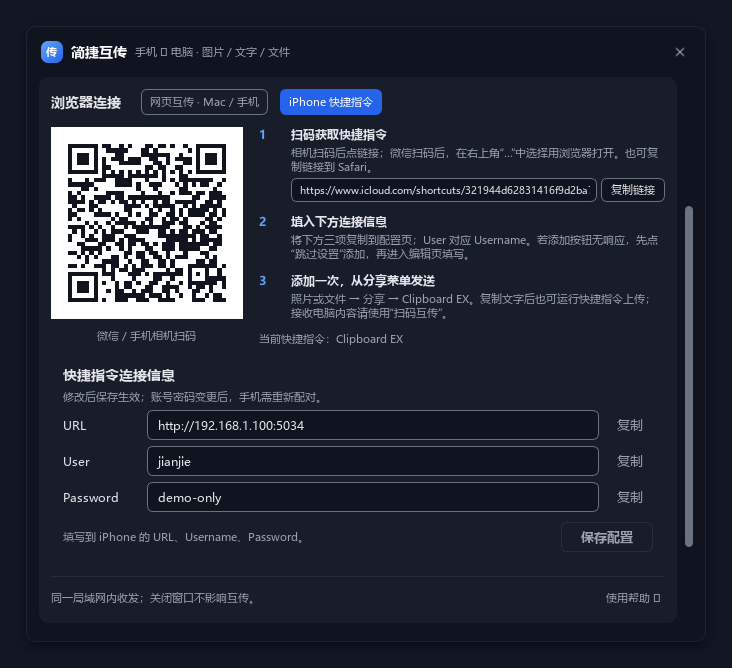
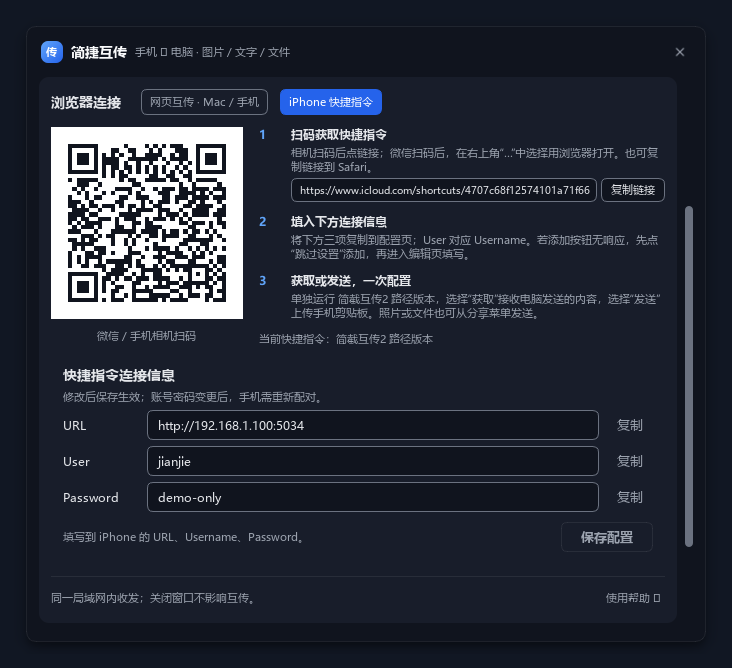
R254：更新 iPhone 双菜单快捷指令入口和说明

Changed region(s): [[0.0902, 0.2096, 0.3306, 0.4491], [0.3907, 0.3892, 0.9016, 0.5389], [0.6311, 0.2695, 0.8115, 0.2994]]

diff --git a/widgets.py b/widgets.py
@@ -1348,7 +1348,7 @@ class PhoneReceiveDialog(CardDialog):
         first_step.itemAt(1).layout().addLayout(link_row)
         instructions.addLayout(first_step)
         instructions.addLayout(self._step("2", "填入下方连接信息", "将下方三项复制到配置页；User 对应 Username。若添加按钮无响应，先点“跳过设置”添加，再进入编辑页填写。"))
-        instructions.addLayout(self._step("3", "添加一次，从分享菜单发送", f"照片或文件 → 分享 → {SHORTCUT_NAME}。复制文字后也可运行快捷指令上传；接收电脑内容请使用“扫码互传”。"))
+        instructions.addLayout(self._step("3", "获取或发送，一次配置", f"单独运行 {SHORTCUT_NAME}，选择“获取”接收电脑发送的内容，选择“发送”上传手机剪贴板。照片或文件也可从分享菜单发送。"))
         instructions.addWidget(self._label(f"当前快捷指令：{SHORTCUT_NAME}", "phoneHint"))
         instructions.addStretch()
         self.phone_pages = QStackedWidget(page)
@@ -1492,7 +1492,7 @@ class PhoneReceiveDialog(CardDialog):
         self.android_button.setAccessibleDescription("已选择" if index == 1 else "未选择")
         common = "手机连接不上：确认同一局域网和 URL 地址；仍失败或换过端口时，可修复局域网连接。"
         from phone_receive import SHORTCUT_NAME
-        ios = f"微信无法打开：复制链接到 Safari，再点“获取快捷指令”。\n已添加过：打开 {SHORTCUT_NAME} 编辑页，更新 URL、Username 和 Password。\n分享后无反应：顶部接收类型勾选图像、文件、文本；在最后一个上传请求后添加“快速查看”展示返回值。电脑收到请求后会在这里显示处理结果。\n快捷指令用于手机快捷发送；接收电脑内容使用扫码网页。\nHEIC 等格式按文件接收，可在资源管理器粘贴保存。"
+        ios = f"微信无法打开：复制链接到 Safari，再点“获取快捷指令”。\n使用新版：添加 {SHORTCUT_NAME}，将 URL、Username 和 Password 配置为下方连接信息。\n单独运行：选择“获取”接收电脑发送的内容，选择“发送”上传手机剪贴板。\n分享照片或文件：在分享菜单中选择此快捷指令。电脑收到请求后会在这里显示处理结果。\nHEIC 等格式按文件接收，可在资源管理器粘贴保存。"
         android = "无需安装 App：扫码即可收发，无需填写账号密码。Mac / Windows / iPhone / 安卓均可使用。\n微信不能选图：用常用浏览器打开；必要时复制配对链接。\n图片最大 32 MiB；其他文件最大 2 GiB，可通过“选择文件”发送 HEIC / WebP 原文件。\n最近 5 条临时保留 30 分钟，请及时下载或保存。"
         self.help_text.setText((ios if index == 0 else android) + "\n" + common)
         if self.mobile_group.isVisible():

diff --git a/phone_receive.py b/phone_receive.py
@@ -20,8 +20,8 @@ from phone_exchange import MAX_FILE_BYTES, FILE_LIMIT_LABEL, FILE_CHUNK_BYTES, D
 FILE_IO_TIMEOUT = 60
 DOWNLOAD_TICKET_TTL = 10 * 60
 PORT = 5034
-SHORTCUT_URL = "https://www.icloud.com/shortcuts/321944d62831416f9d2ba7917917686a"
-SHORTCUT_NAME = "Clipboard EX"
+SHORTCUT_URL = "https://www.icloud.com/shortcuts/4707c68f12574101a71f666d029996c5"
+SHORTCUT_NAME = "简截互传2 路径版本"
 MAX_IMAGE_BYTES = 32 * 1024 * 1024
 _MAX_MANIFEST_BYTES = 8 * 1024
 _LAN_RANGES = tuple(ipaddress.ip_network(net) for net in

diff --git a/common.py b/common.py
@@ -17,7 +17,7 @@ from PySide6.QtWidgets import QApplication, QWidget
 
 APP_NAME = "简截"
 APP_VERSION = "4.13.7-win.1"
-APP_BUILD_ID = "R253"
+APP_BUILD_ID = "R254"
 
 # ---------- 系统剪贴板（Win32 文件引用 / 静态图片） ----------
 _CF_HDROP = 15

diff --git a/README.md b/README.md
@@ -16,7 +16,7 @@
 2. **截图之后，接着做。** 框选或自动定位窗口，支持箭头、文字、形状、马赛克和钉图；同一选区可以直接转成长截图、GIF 或录屏，减少重复框选和工具切换。
 3. **长截图，左右分栏独立拼接。** 支持单栏与双栏模式，可拖动调整分栏宽度。左右两栏分别滚动、分别拼接，适合同时截取并排的两块内容，完成后继续编辑标注。
 4. **文件搜索，索引留在本地。** 像 Everything 一样随输随查，面向秒级响应：启动后自动在后台准备索引，复用已有数据并跟踪文件变化。C++ 搜索内核支持中文和多个关键词，匹配内容以颜色突出显示，让查找文件更直接。
-5. **手机与电脑，扫码互传。** 同一局域网内，通过浏览器双向收发图片、文字和文件，接收端无需安装专用 App。iPhone 添加并配置快捷指令后，可以从照片或文件的分享菜单直接发送到电脑，复制文字后也能运行快捷指令上传，传输顺手、少几次跳转。
+5. **手机与电脑，扫码互传。** 同一局域网内，通过浏览器双向收发图片、文字和文件，接收端无需安装专用 App。iPhone 添加并配置快捷指令后，通过“获取”和“发送”两个菜单收发内容，也可以从照片或文件的分享菜单直接发送到电脑，传输顺手、少几次跳转。
 6. **按自己的习惯设置。** 自定义全局快捷键和截图工具键，让常用操作一按就到；提示可放在屏幕四角，避开工作窗口。截图指针可选十字、默认鼠标或小手，支持开机自启动、明暗主题与自定义存储位置，任务清单也会记住调整后的窗口尺寸。
 
 [下载 Windows 完整版](https://github.com/VampireQW/jianjie/releases/latest) · [访问官网](https://jianjie-4b7.pages.dev/)
@@ -115,7 +115,13 @@
 
 #### iPhone 快捷发送
 
-添加并配置快捷指令后，在照片或文件的分享菜单中选择快捷指令，即可发送到电脑。复制文字后也可以运行快捷指令上传；从电脑接收内容时，使用扫码网页。
+添加 [简截互传2 路径版本](https://www.icloud.com/shortcuts/4707c68f12574101a71f666d029996c5)，将 URL、Username 和 Password 配置为电脑互传窗口中的连接信息。
+
+- 单独运行，选择 **“获取”**：接收电脑在互传窗口中发送的内容。
+- 单独运行，选择 **“发送”**：将手机剪贴板内容发送到电脑。
+- 在照片或文件的分享菜单中选择此快捷指令，也可以直接发送到电脑。
+
+这版快捷指令的两个菜单已由作者在 iPhone 上运行确认。扫码网页仍可用于双向互传。
 
 ![iPhone 快捷指令：扫码添加、配置连接信息与分享菜单发送](docs/screenshots/iphone-shortcut.png)
 
@@ -165,4 +171,4 @@ python -m PyInstaller --noconfirm --clean 简截.spec
 
 第三方组件及图标声明见 [THIRD_PARTY_NOTICES.md](THIRD_PARTY_NOTICES.md)。
 
-[^memory]: 包体积按 R253 的 38,916,463 字节计算。内存参考来自 R253 的一次运行快照，主程序与启动器工作集合计约 85.7 MiB，当次私有内存合计约 109.3 MiB。工作集不等于全部已分配内存；这些数字是参考值，实际占用会随系统、图片大小、长截图长度和录制场景变化。
+[^memory]: 包体积按 R254 的 38,917,534 字节计算。内存参考来自 R253 的一次运行快照，主程序与启动器工作集合计约 85.7 MiB，当次私有内存合计约 109.3 MiB。工作集不等于全部已分配内存；这些数字是参考值，实际占用会随系统、图片大小、长截图长度和录制场景变化。

diff --git a/THIRD_PARTY_NOTICES.md b/THIRD_PARTY_NOTICES.md
@@ -2,7 +2,7 @@
 
 简截使用 Python、PySide6 / Qt、NumPy、Pillow、MSS、psutil、qrcode，以及 SQLite。文件搜索内核通过 Zig / Clang 构建；各第三方组件的许可仍以各自项目为准。
 
-iPhone 快捷指令入口使用 [Clipboard EX](https://www.icloud.com/shortcuts/321944d62831416f9d2ba7917917686a)，互传服务兼容 SyncClipboard 的相关传输协议。
+iPhone 快捷指令入口使用 [简截互传2 路径版本](https://www.icloud.com/shortcuts/4707c68f12574101a71f666d029996c5)，原始模板参考 [Clipboard EX](https://www.icloud.com/shortcuts/321944d62831416f9d2ba7917917686a)。互传服务兼容 SyncClipboard 的相关传输协议。
 
 ## Lucide / Feather 图标
 

diff --git a/docs/screenshots/README.md b/docs/screenshots/README.md
@@ -1,6 +1,6 @@
 # README 界面截图
 
-这些图片由当前简截 PySide6 界面控件渲染，使用演示任务、文件名和配对信息；不包含实际用户数据。图片对应 R253。
+这些图片由当前简截 PySide6 界面控件渲染，使用演示任务、文件名和配对信息；不包含实际用户数据。图片对应 R254，iPhone 二维码指向双菜单版快捷指令。
 
 README 使用相对路径引用此目录，发布到 GitHub 时需要同时提交这些 PNG 文件。
 
